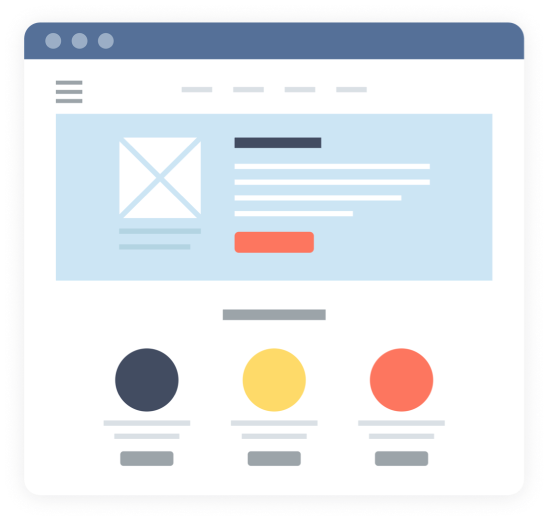
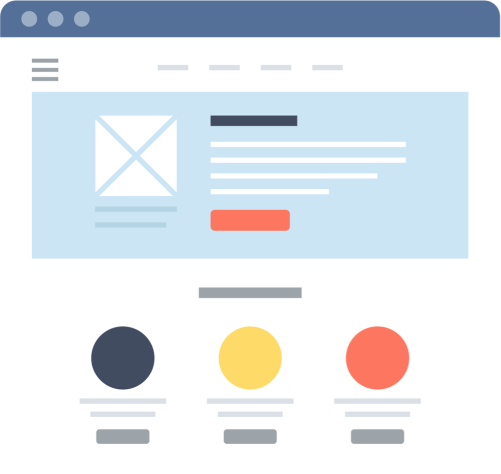
fixed the bugs

diff --git a/index.html b/index.html
@@ -10,6 +10,7 @@
   <link rel="stylesheet" href="assets/css/section1.css">
   <link rel="stylesheet" href="assets/css/section2.css">
   <link rel="stylesheet" href="assets/css/price.css">
+  <link rel="stylesheet" href="assets/css/free.css">
   <meta charset="utf-8">
   <meta name="viewport" content="width=device-width;initial-scale=1">
 </head>
@@ -55,7 +56,11 @@
     </div>
   </div>
   <div class="container row">
-    <img src="assets/img/browser-image.png" alt="">
+    <div class="img">
+      <img class="dots" src="assets/img/dots.svg" alt="">
+      <img class="triangle" src="assets/img/Triangle.svg" alt="">
+      <img class="main" src="assets/img/browser-image.png" alt="">
+    </div>
     <div class="content">
       <h2>Build anything, anytime!</h2>
       <ul>
@@ -165,11 +170,23 @@
         </div>
     </div>
   <p>Both pricings contains all of our features.</p>
-  <a href="">Check all our features   </a>
+  <a href="">Check all our features</a>
+  </div>
+</div>
+<div class="free">
+  <div class="container">
+  <h2>Try xPider for 14 days, for free!</h2>
+  <p>Millions of people around the world have already made xPider the place
+  <br>where their dream happens.</p>
+  <button class="white">GET STARTED</button>
   </div>
 </div>
 
 <footer>
+  <div class="footer-top">
+    <img src="assets/img/logo-footer.svg" alt="">
+    div
+  </div>
   <div class="footer-bottom">
     <div class="container">
       <ul class="inline">

diff --git a/assets/css/price.css b/assets/css/price.css
@@ -14,14 +14,16 @@
 }
 
 .pricing .card-left, .pricing .card-right {
+    display: flex;
+    align-items: center;
+    flex-direction: column;
     border-radius: 5px;
-    margin: 0 27px;
+    margin: 62px 27px 45px;
     width: 382px;
     height: 428px;
 }
 
 .pricing .card-left {
-
     background-color: var(--white-color);
 }
 
@@ -32,6 +34,7 @@
 .pricing .card-left h2, .pricing .card-right h2 {
     padding: 29px 140px 10px;
     font-size: 60px;
+    margin-top: 0;
 }
 
 .pricing .card-left h2 {
@@ -53,8 +56,16 @@
     margin-bottom: 34px;
 }
 
+.pricing .card-left hr, .pricing .card-right hr {
+    width: 100%;
+}
+
 .pricing .card-left hr {
-    color: var(--left-hr-color);
+    border-color: var(--left-hr-color);
+}
+
+.pricing .card-right hr {
+    border-color: var(--right-br-color);
 }
 
 .pricing .card-left p, .pricing .card-right p {
@@ -68,6 +79,14 @@
 
 .pricing h2 {
     text-align: center;
+    margin-top: 122px;
+}
+
+.pricing a {
+    display: flex;
+    justify-content: center;
+    color: var(--button-primary-color);
+    margin-bottom: 126px;
 }
 
 

diff --git a/assets/css/description.css b/assets/css/description.css
@@ -34,7 +34,7 @@
     flex-direction: column;
 }
 
-.description .container.row img, .description .content {
+.description .img, .description .content {
     color: var(--grey-color);
     width: 50%;
 }
@@ -69,6 +69,33 @@
     font-style: normal;
 }
 
-hr {
+.description .content hr {
     border-color: var(--decription-hr-color);
+    width: 100%;
+}
+
+.description .img {
+    position: relative;
+}
+
+.description .dots {
+    position: absolute;
+    width: 158px;
+    height: 153px;
+    top: -36px;
+    left: -76px;
+}
+
+.description .triangle {
+    bottom: 0;
+    width: 37px;
+    height: 33px;
+    right: 55px;
+    position: absolute;
+    transform: translateY(-40%);
+}
+
+.description .main {
+    width: 100%;
+    position: relative;
 }

diff --git a/assets/css/free.css b/assets/css/free.css
@@ -1,0 +1,26 @@
+.free {
+    background-color: var(--button-primary-color);
+}
+
+.free .container {
+    display: flex;
+    justify-content: center;
+    align-items: center;
+    flex-direction: column;
+}
+
+.free h2 {
+    margin-top: 112px;
+}
+
+.free p {
+    font-size: 18px;
+    line-height: 34px;
+}
+
+.free button {
+    margin: 27px 0 215px;
+    padding: 18px 37px;
+}
+
+

diff --git a/assets/css/section1.css b/assets/css/section1.css
@@ -31,8 +31,10 @@
     text-align: center;
 }
 
-hr {
+.how-works hr {
     border-color: var(--section-hr-color);
+    width: 100%;
+    margin: 123px 0;
 }
 
 .how-works .built {

diff --git a/assets/css/main.css b/assets/css/main.css
@@ -10,6 +10,7 @@
     --left-hr-color: #E7EAEE;
     --left-button-color: #54565A;
     --left-br-color: #C9CDD5;
+    --right-br-color: #1A49DE;
 }
 
 body {
